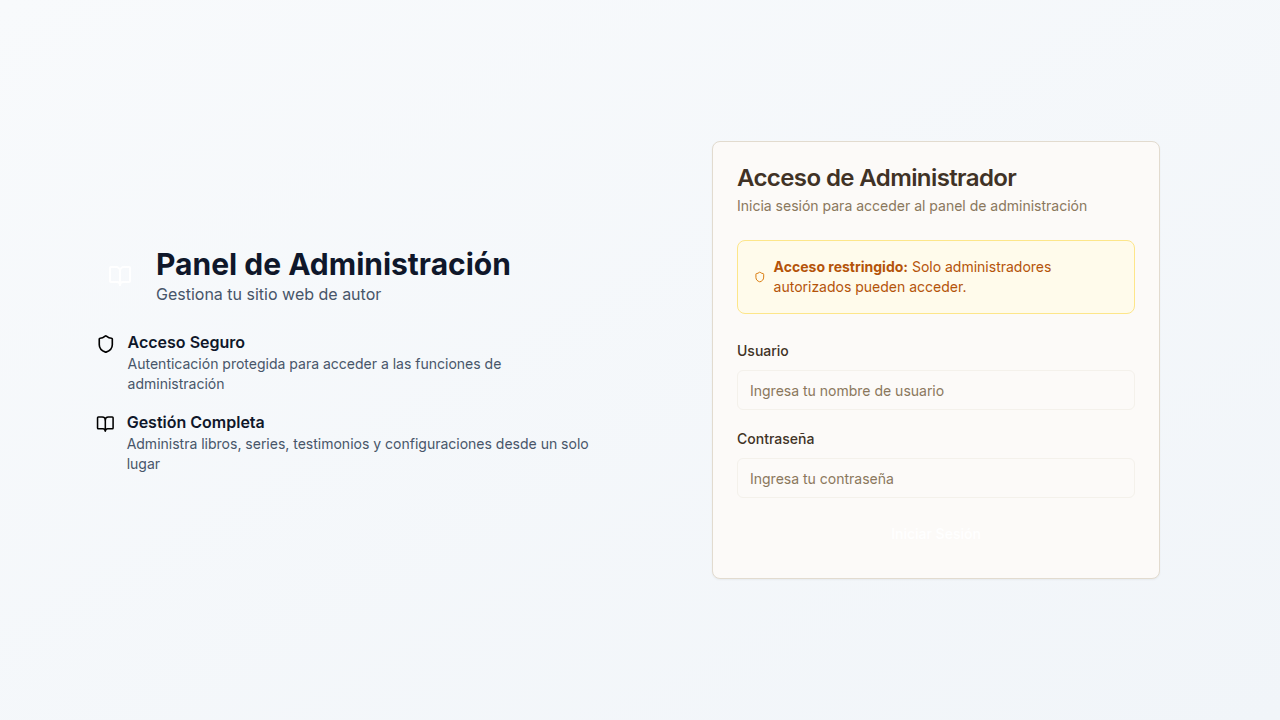
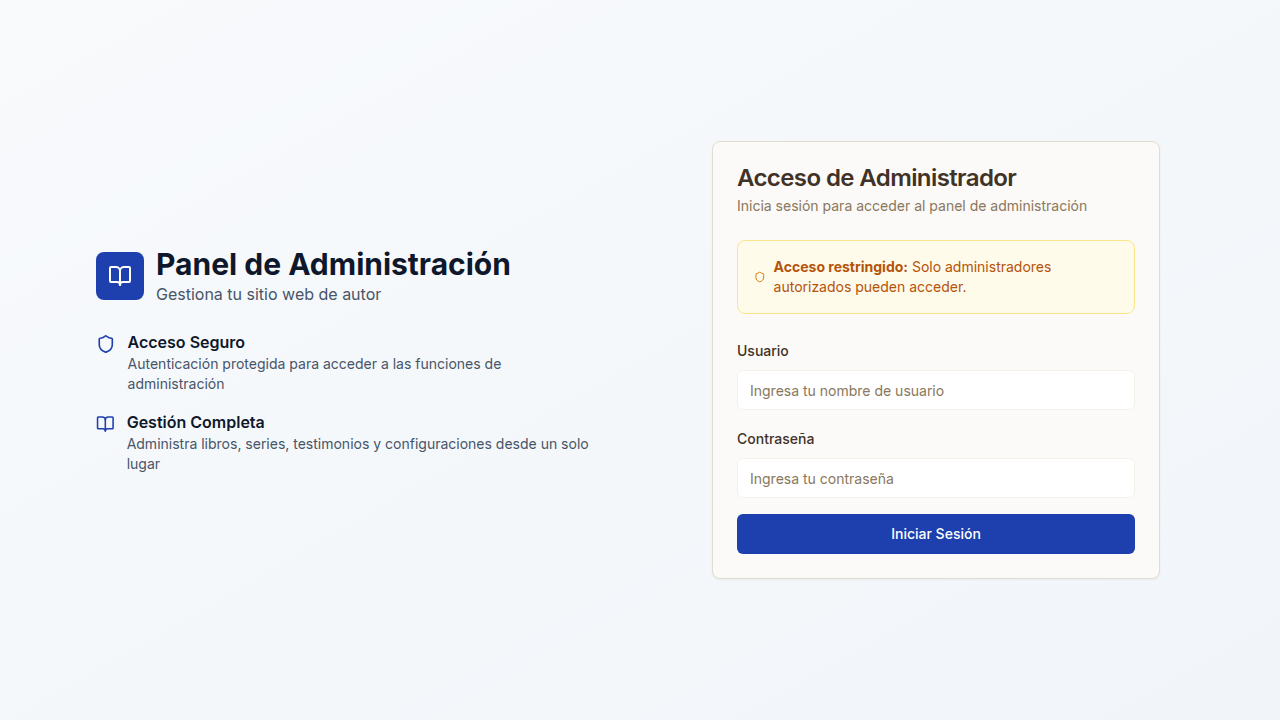
Update the authentication page route to be accessible without a locale prefix
Reorder routes in App.tsx to prioritize the /auth route, allowing direct access to the authentication page without a locale prefix.

Replit-Commit-Author: Agent
Replit-Commit-Session-Id: 0e79ca20-11ef-4d55-ab15-491478f7839c
Replit-Commit-Checkpoint-Type: full_checkpoint
Replit-Commit-Screenshot-Url: https://storage.googleapis.com/screenshot-production-us-central1/d541f09b-f6a9-4ac7-88a0-49b71e82df9f/0e79ca20-11ef-4d55-ab15-491478f7839c/TasBAPn

diff --git a/client/src/App.tsx b/client/src/App.tsx
@@ -45,6 +45,10 @@ function Router() {
 
   return (
     <Switch>
+      {/* Admin routes (no locale prefix needed) - MUST be first */}
+      <Route path="/auth" component={AuthPage} />
+      <ProtectedRoute path="/admin" component={Admin} />
+      
       {/* Locale-prefixed routes */}
       <Route path="/:locale(es-ES|en-US|ca-ES|fr-FR|it-IT|de-DE|pt-PT)/" component={Home} />
       <Route path="/:locale(es-ES|en-US|ca-ES|fr-FR|it-IT|de-DE|pt-PT)/autores" component={AuthorsListPage} />
@@ -112,7 +116,6 @@ function Router() {
       <Route path="/search">
         {() => <Redirect to={`/${locale}/search`} />}
       </Route>
-      <Route path="/auth" component={AuthPage} />
       <Route path="/blog">
         {() => <Redirect to={`/${locale}/blog`} />}
       </Route>
@@ -137,9 +140,6 @@ function Router() {
       <Route path="/order-confirmation/:orderId">
         {(params) => <Redirect to={`/${locale}/pedido/${params.orderId}`} />}
       </Route>
-      
-      {/* Admin routes (no locale prefix needed) */}
-      <ProtectedRoute path="/admin" component={Admin} />
       
       {/* 404 Not Found */}
       <Route component={NotFound} />
